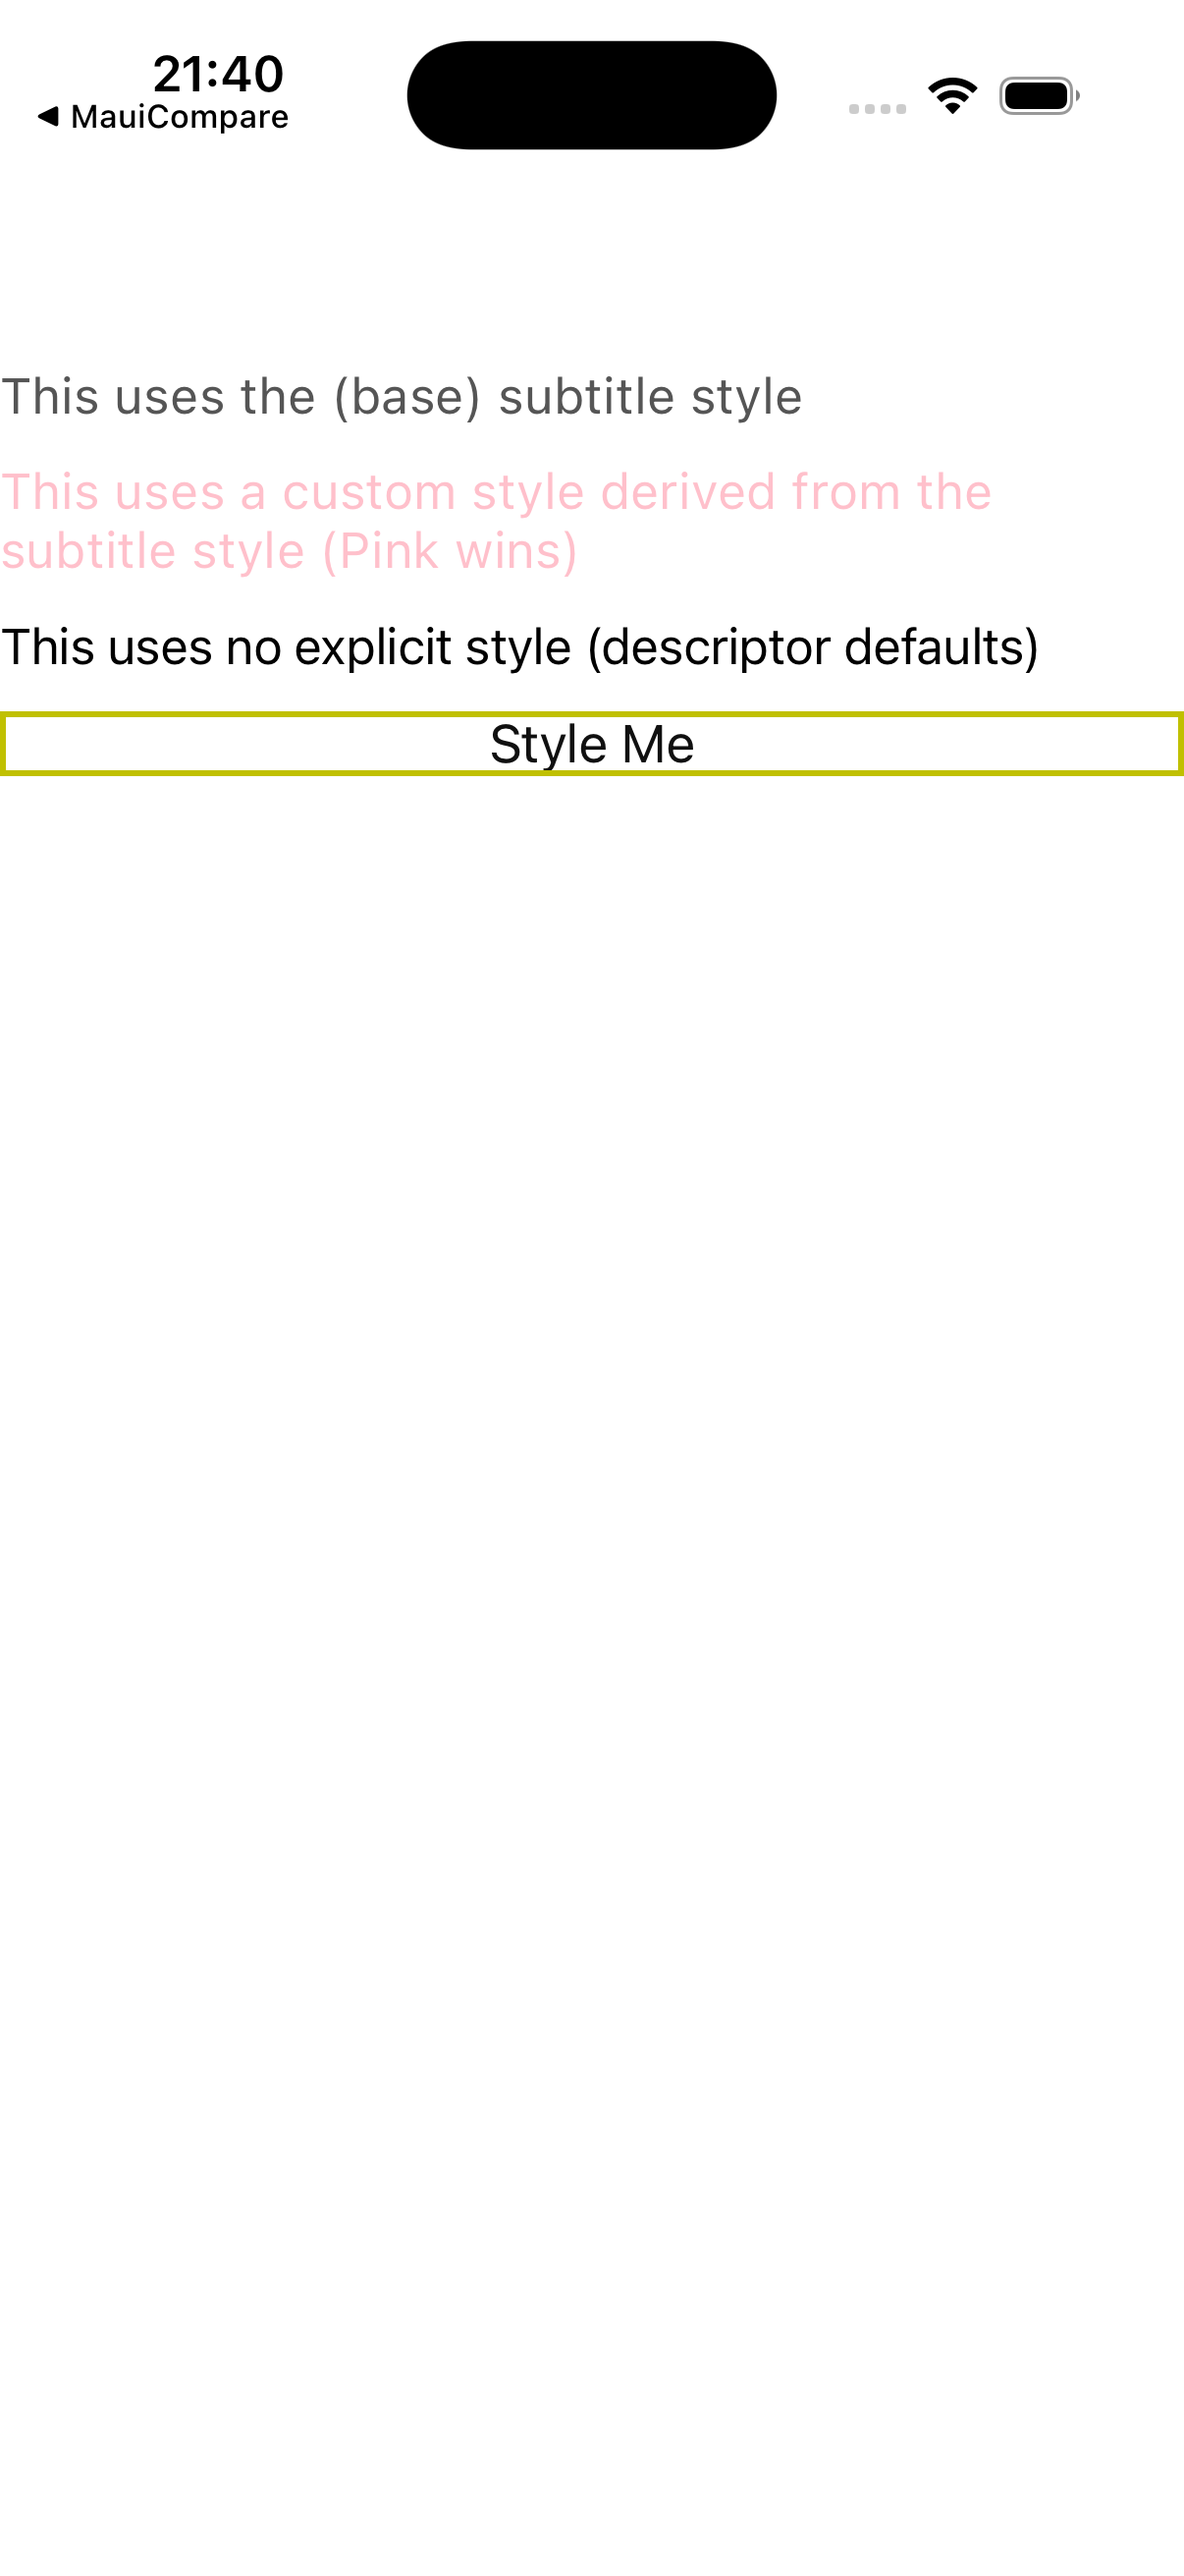
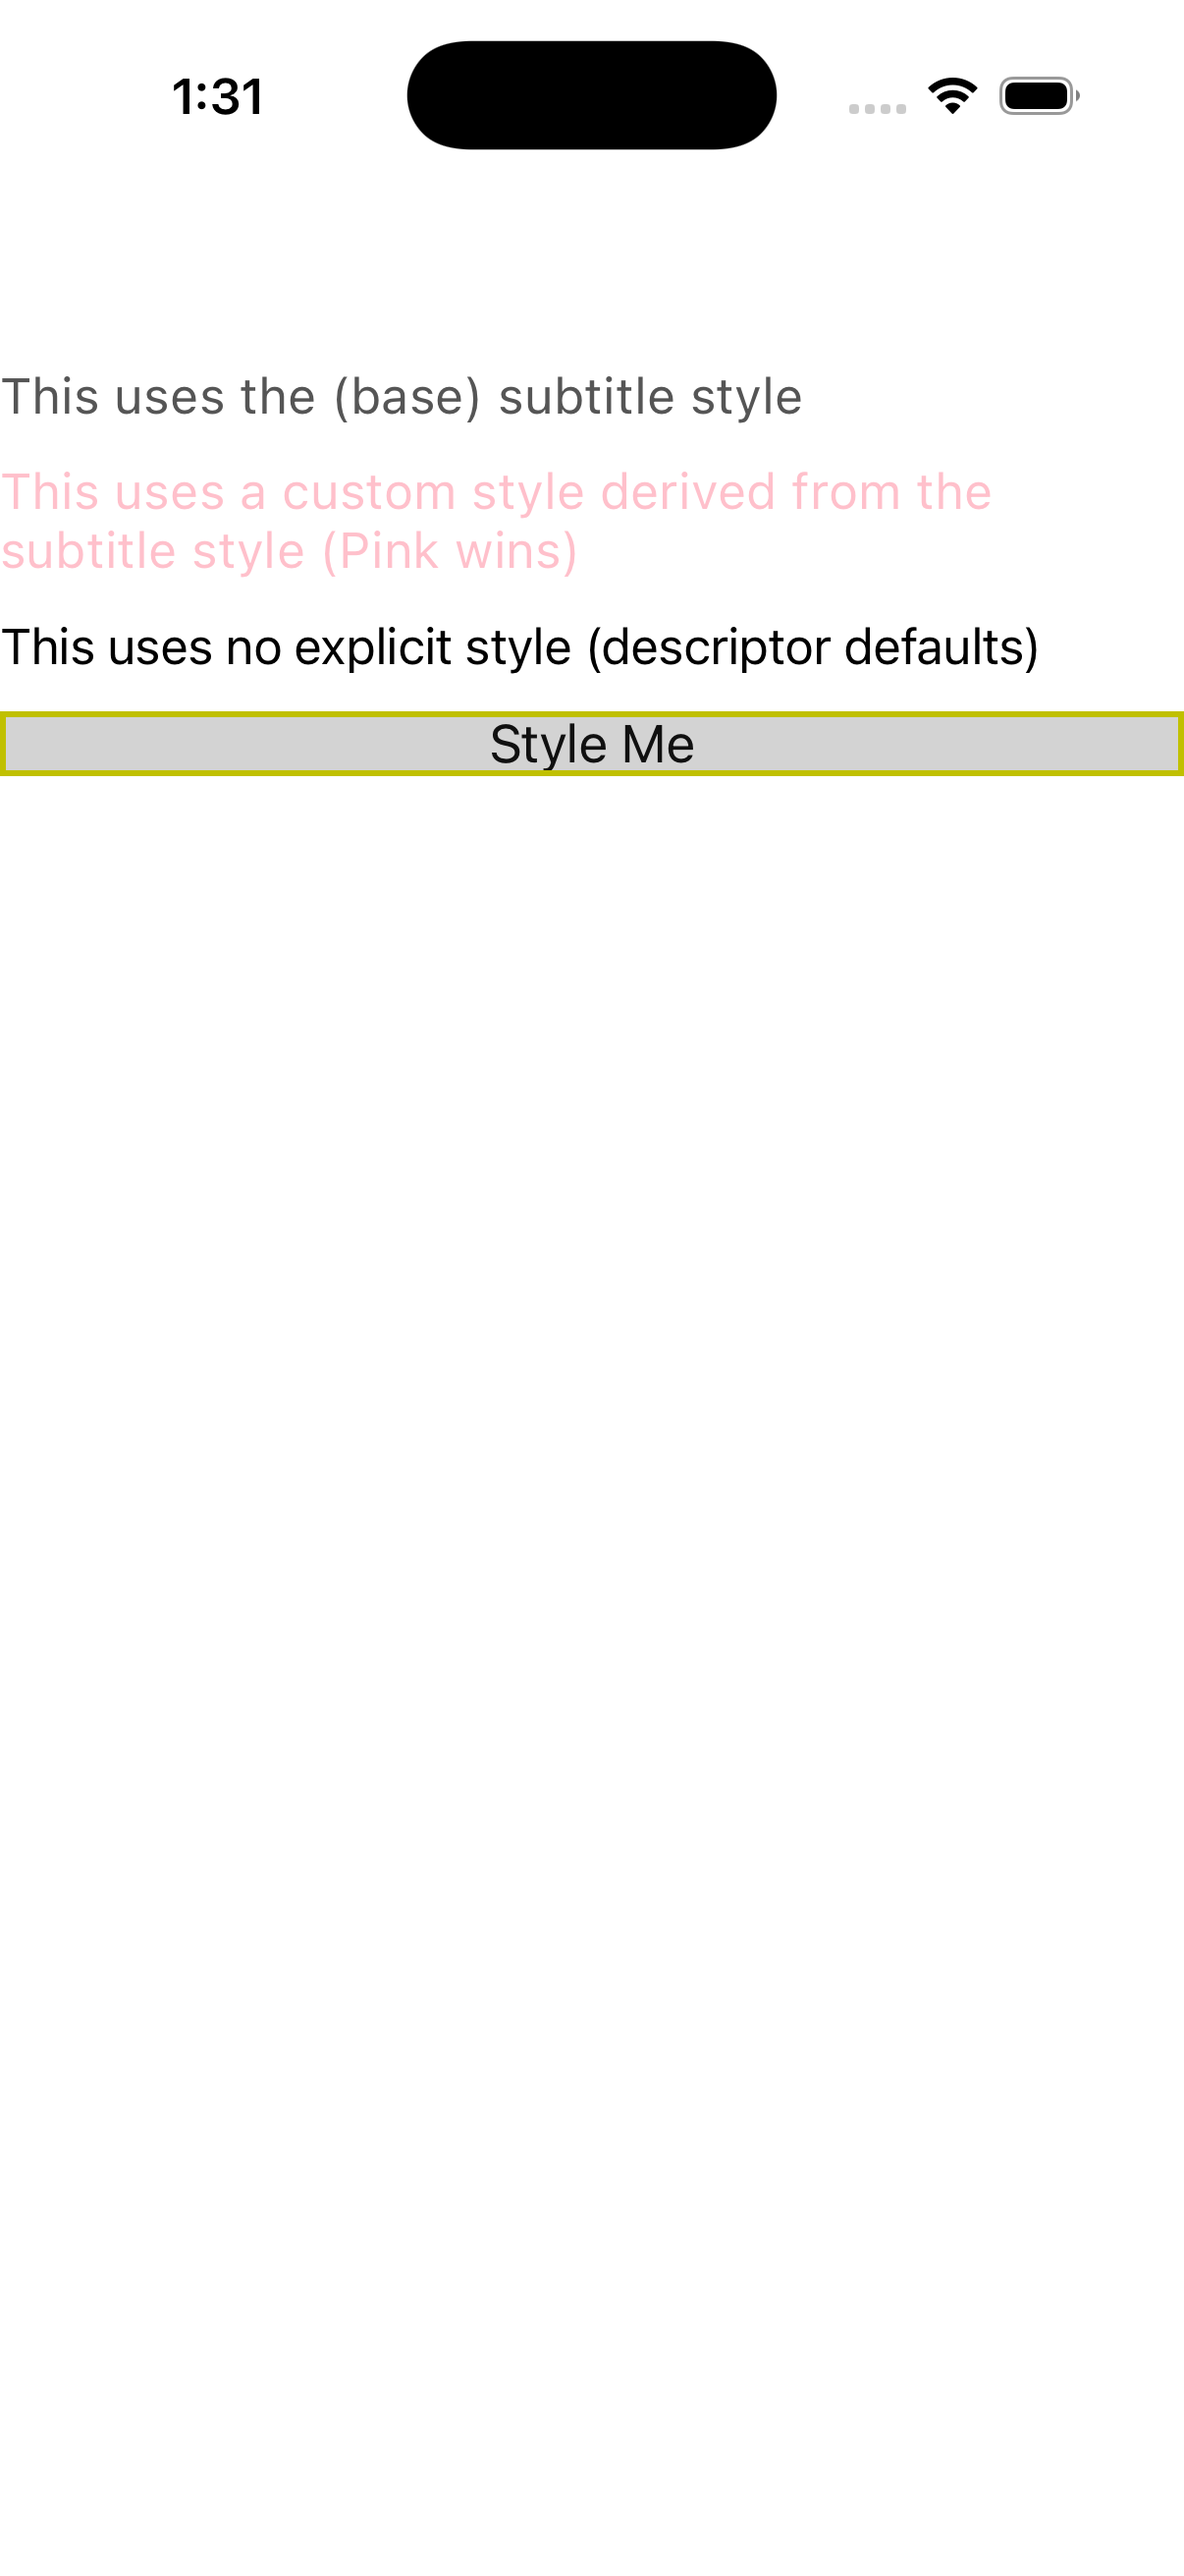
fix(samples,parity): styles Style-Me button gets a light fill (readable on dark)
example 26/172 (styles): the 3 label styles match MAUI (base SubtitleStyle gray /
derived pink / default white). The Style-Me button had a near-black TextColor with NO
background fill — fine on light, but invisible dark-on-dark. C#'s ButtonStyle sets a
light BackgroundColor; that is NOT a setter-targetable descriptor in the port (it flows
through set_background_brush, per the page's header note), so the demo applies the
matching light-gray fill directly while the multi-setter Style still drives TextColor/
CornerRadius/Stroke. Now the button shows light fill + yellow border + dark text
matching MAUI both themes. tidy 0. Tracker: styles -> minor (23 minor).

Changed region(s): [[0.0, 0.278, 1.0, 0.3089], [0.0614, 0.0, 0.2454, 0.0618]]

diff --git a/port/cpp/src/samples/pages/styles_page.hpp b/port/cpp/src/samples/pages/styles_page.hpp
@@ -34,6 +34,7 @@
 #include <memory>
 #include <string>
 
+#include "maui/controls/brushes/solid_color_brush.hpp"
 #include "maui/controls/button.hpp"
 #include "maui/controls/content_page.hpp"
 #include "maui/controls/label.hpp"
@@ -41,6 +42,7 @@
 #include "maui/controls/style.hpp"
 #include "maui/controls/vertical_stack_layout.hpp"
 #include "maui/graphics/color.hpp"
+#include "maui/graphics/colors.hpp"
 #include "maui/hosting/maui_app.hpp"
 
 #include "gallery_attach.hpp"
@@ -95,6 +97,12 @@ namespace maui::samples
 
             styled_button_.set_text("Style Me");
             button_style_->apply(styled_button_);
+            // C#'s ButtonStyle sets BackgroundColor (a light fill that keeps the dark TextColor readable in
+            // BOTH themes). BackgroundColor is not a setter-targetable descriptor here (it flows through
+            // set_background_brush, see the header note), so the demo applies the matching light fill
+            // directly — the multi-setter Style above still drives TextColor / CornerRadius / Stroke.
+            styled_button_.set_background_brush(
+                std::make_shared<maui::controls::solid_color_brush>(maui::graphics::colors::light_gray));
 
             stack_.add(base_styled_label_);
             stack_.add(custom_styled_label_);

diff --git a/port/cpp/docs/comparison/README.md b/port/cpp/docs/comparison/README.md
@@ -2,7 +2,7 @@
 
 Theme-matched iOS comparison: each page rendered by **real .NET MAUI** vs the **C++ port**, on the same iPhone 17 simulator, compared **light-vs-light** and **dark-vs-dark**. Both stacks render native-default controls + the system font (the C# app's `dotnet new maui` default `Styles.xaml` + OpenSans are stripped; appearance forced via `MAUI_THEME` / `MAUI_APPEARANCE`). Goal: pixel-perfect parity, fixed example-by-example.
 
-**Progress: 0 / 172 🟢 matched** · 22 🟡 minor · 51 🔴 diff · 99 ⬜ pending
+**Progress: 0 / 172 🟢 matched** · 23 🟡 minor · 51 🔴 diff · 98 ⬜ pending
 
 Status legend: 🟢 pixel-match (both themes) · 🟡 minor diff · 🔴 notable diff to fix · ⬜ not yet reviewed. Per-theme verdicts in `parity_status.json`.
 
@@ -37,7 +37,7 @@ Rows are in **fix order** (top → bottom): foundational single controls first (
 | 23 | Input Controls | 🟡<br>L:minor<br>D:minor | ![](csharp_ios_light/input_controls.png) | ![](cpp_ios_light/input_controls.png) | ![](csharp_ios_dark/input_controls.png) | ![](cpp_ios_dark/input_controls.png) |
 | 24 | Fonts | 🟡<br>L:minor<br>D:minor | ![](csharp_ios_light/fonts.png) | ![](cpp_ios_light/fonts.png) | ![](csharp_ios_dark/fonts.png) | ![](cpp_ios_dark/fonts.png) |
 | 25 | Formatted Text | 🟡<br>L:minor<br>D:minor | ![](csharp_ios_light/formatted_text.png) | ![](cpp_ios_light/formatted_text.png) | ![](csharp_ios_dark/formatted_text.png) | ![](cpp_ios_dark/formatted_text.png) |
-| 26 | Styles | ⬜<br>L:pending<br>D:pending | ![](csharp_ios_light/styles.png) | ![](cpp_ios_light/styles.png) | ![](csharp_ios_dark/styles.png) | ![](cpp_ios_dark/styles.png) |
+| 26 | Styles | 🟡<br>L:minor<br>D:minor | ![](csharp_ios_light/styles.png) | ![](cpp_ios_light/styles.png) | ![](csharp_ios_dark/styles.png) | ![](cpp_ios_dark/styles.png) |
 | 27 | Triggers | ⬜<br>L:pending<br>D:pending | ![](csharp_ios_light/triggers.png) | ![](cpp_ios_light/triggers.png) | ![](csharp_ios_dark/triggers.png) | ![](cpp_ios_dark/triggers.png) |
 | 28 | Behaviors | 🔴<br>L:diff<br>D:diff | ![](csharp_ios_light/behaviors.png) | ![](cpp_ios_light/behaviors.png) | ![](csharp_ios_dark/behaviors.png) | ![](cpp_ios_dark/behaviors.png) |
 | 29 | Semantics | ⬜<br>L:pending<br>D:pending | ![](csharp_ios_light/semantics.png) | ![](cpp_ios_light/semantics.png) | ![](csharp_ios_dark/semantics.png) | ![](cpp_ios_dark/semantics.png) |
